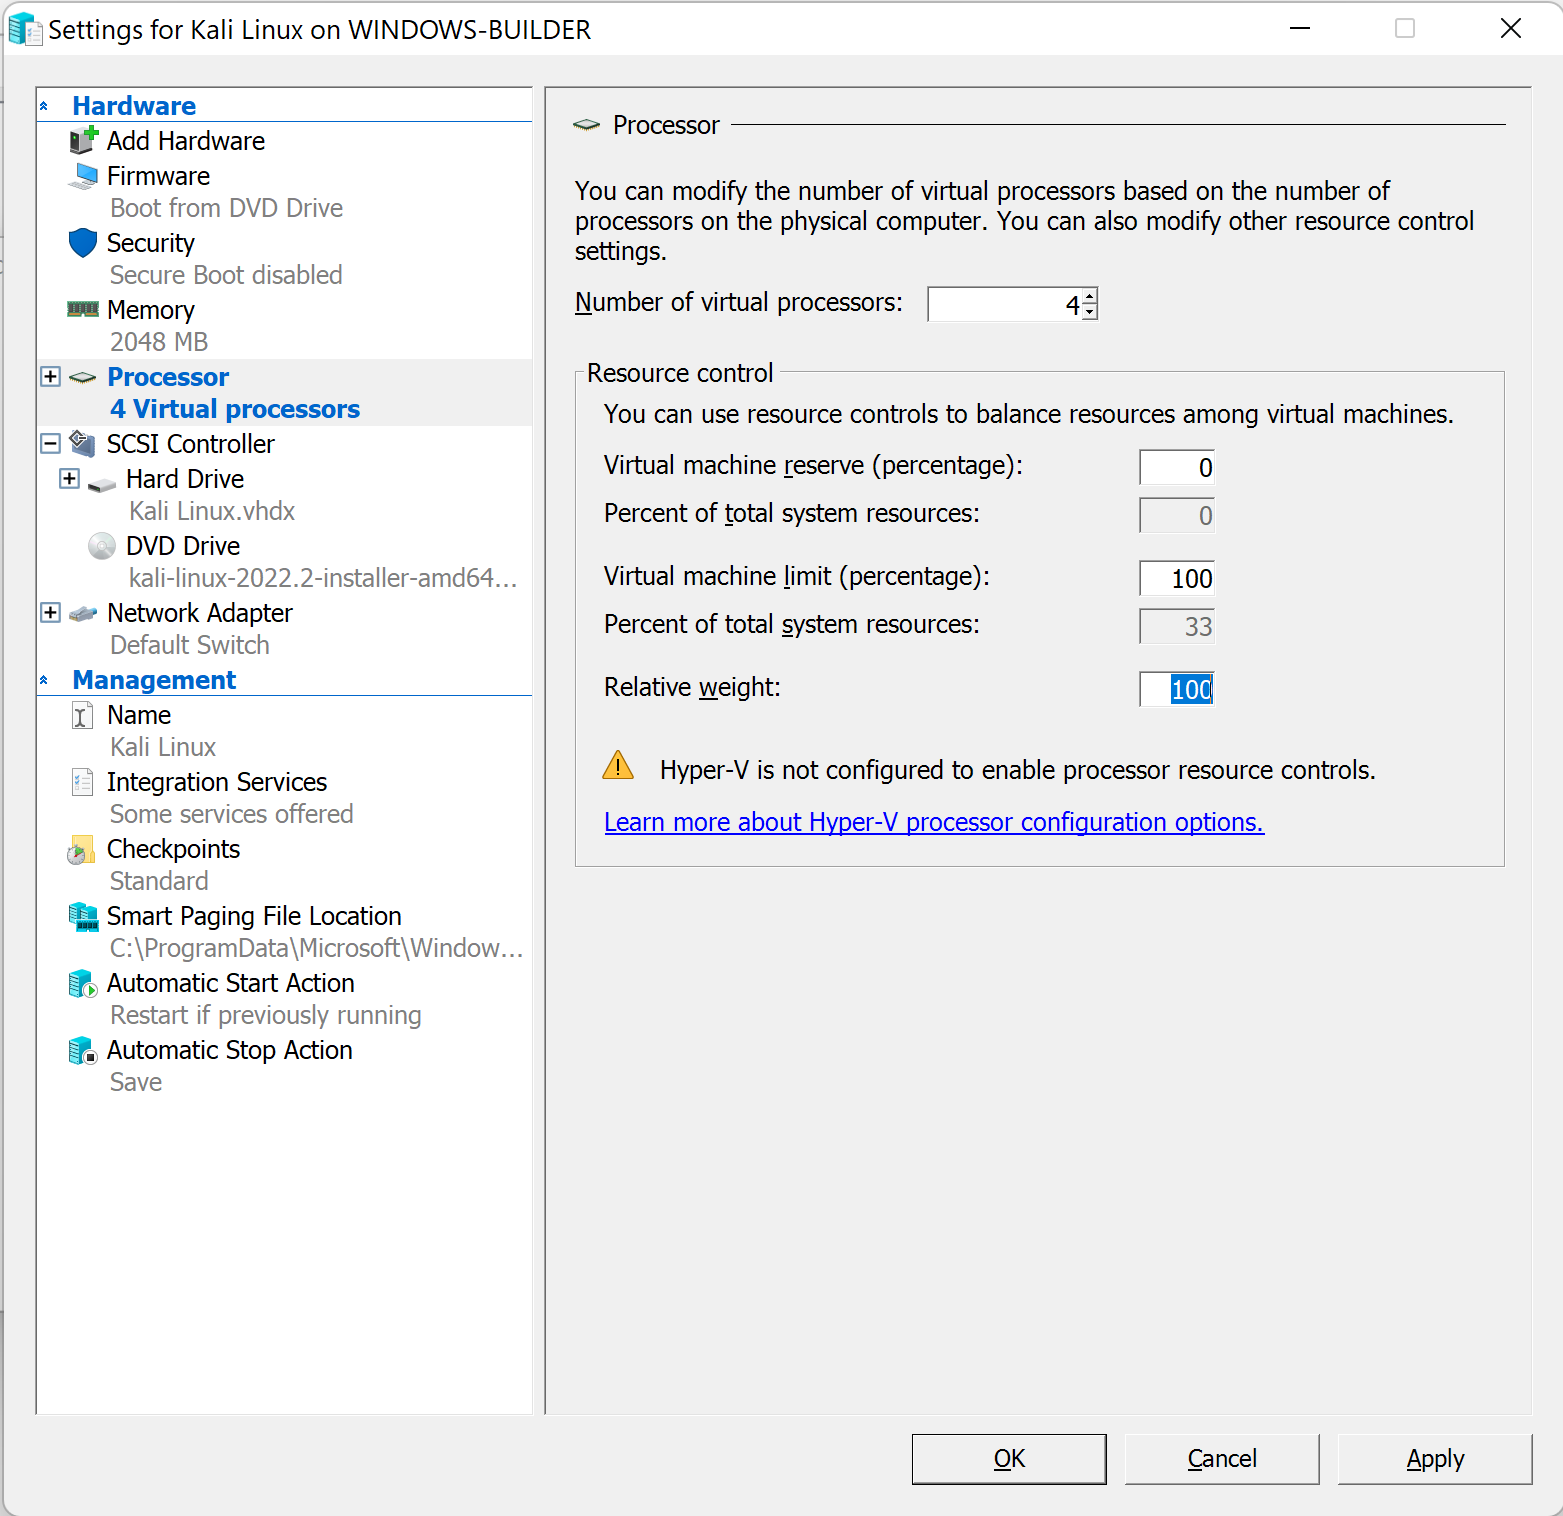
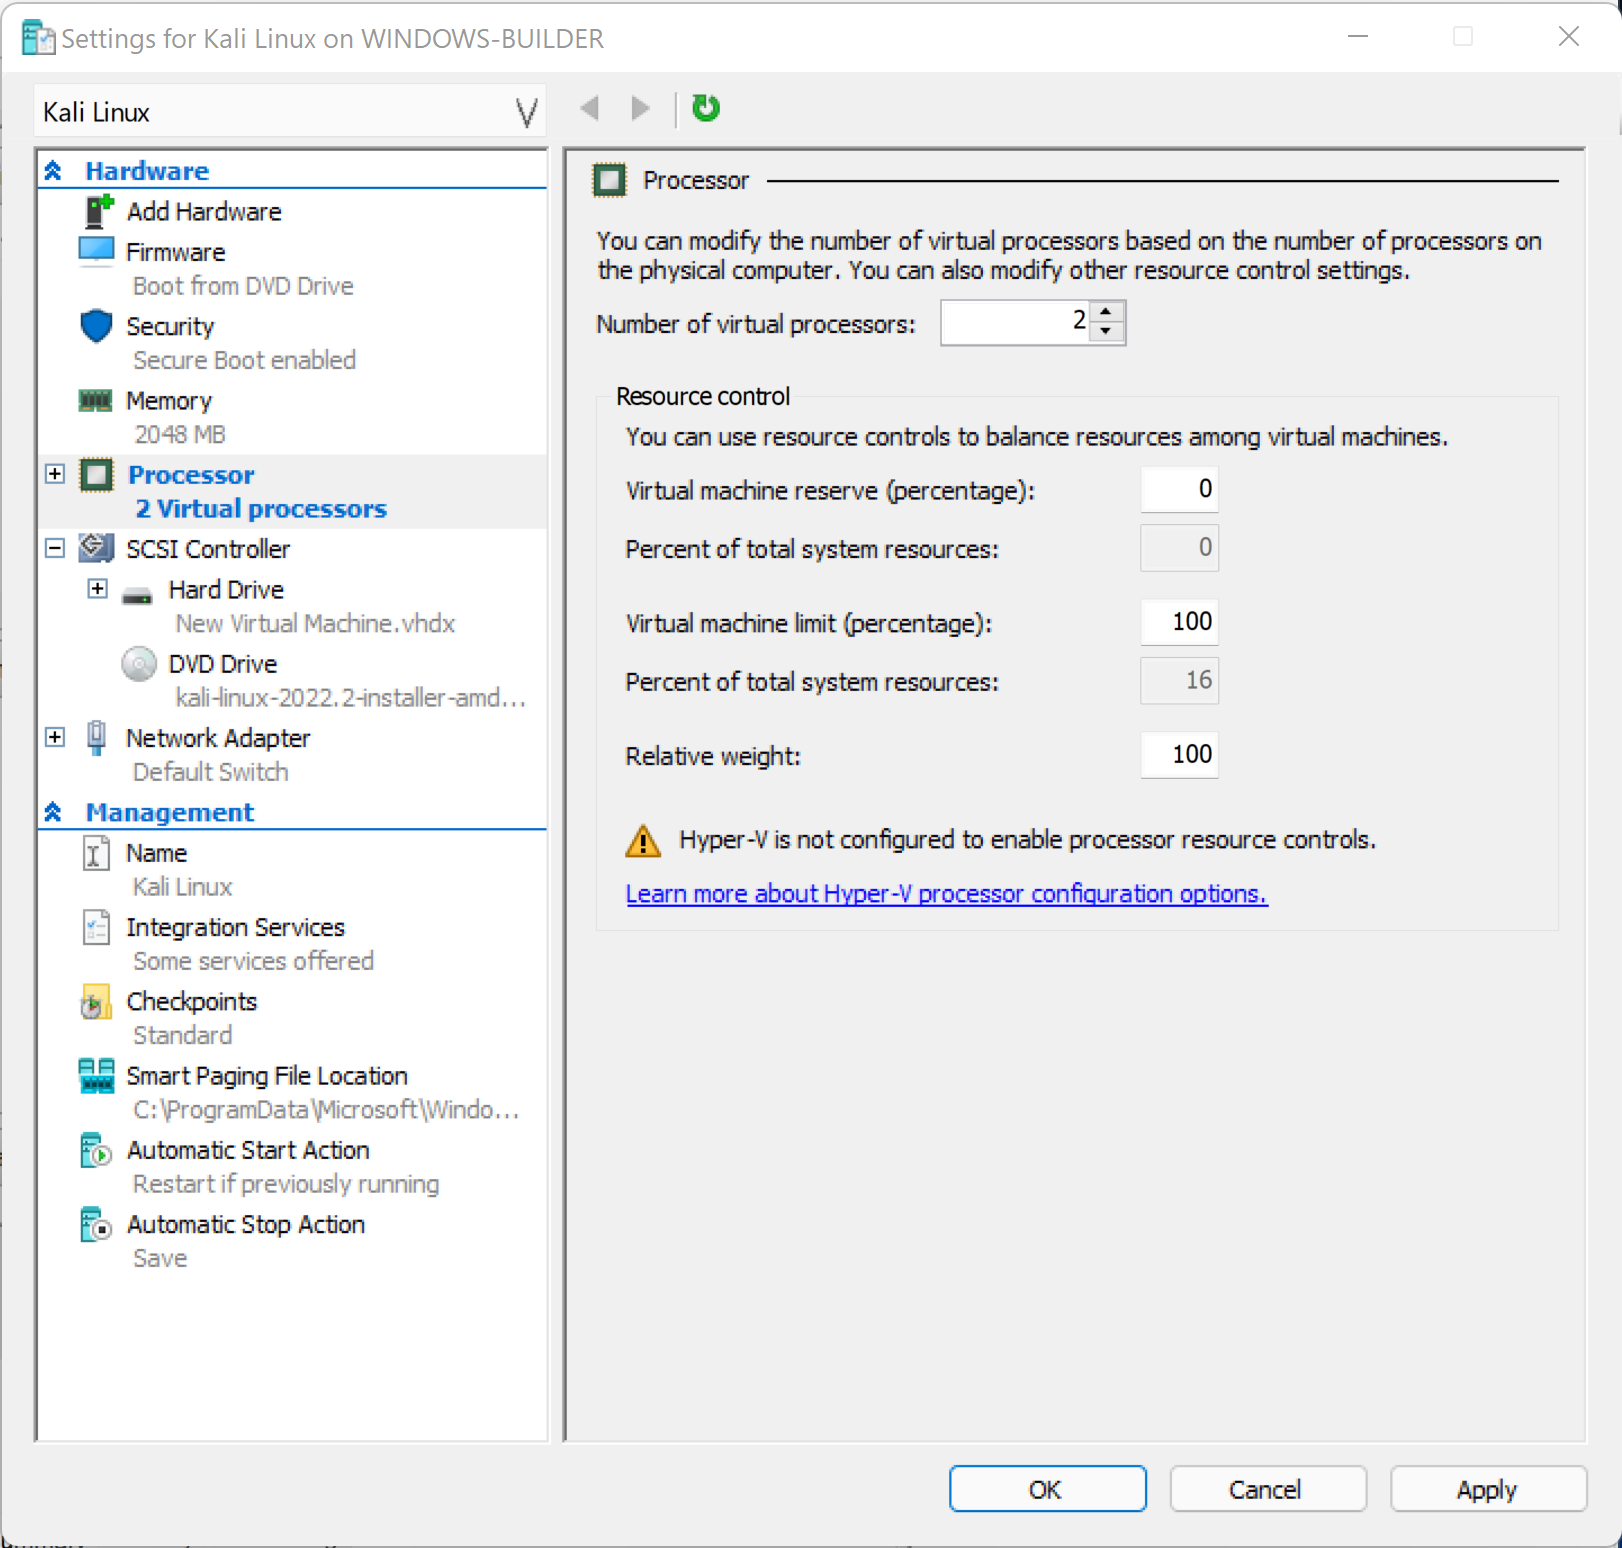
Change Hyper-V CPU from 4 to 2

diff --git a/virtualization/install-hyper-v-guest-vm/index.md b/virtualization/install-hyper-v-guest-vm/index.md
@@ -33,4 +33,4 @@ From here we can either select 'Connect' if we are confident in Windows's select
 
 ![](hyper-v-cpu-settings.png)
 
-In the case of this machine, the only change needed was for the number of virtual processors. We dropped it down from 6 to 4. We are then ready to connect to our VM and continue [setup like normal](/docs/installation/hard-disk-install/)
+In the case of this machine, the only change needed was for the number of virtual processors. We dropped it down from 6 to 2. We are then ready to connect to our VM and continue [setup like normal](/docs/installation/hard-disk-install/)
